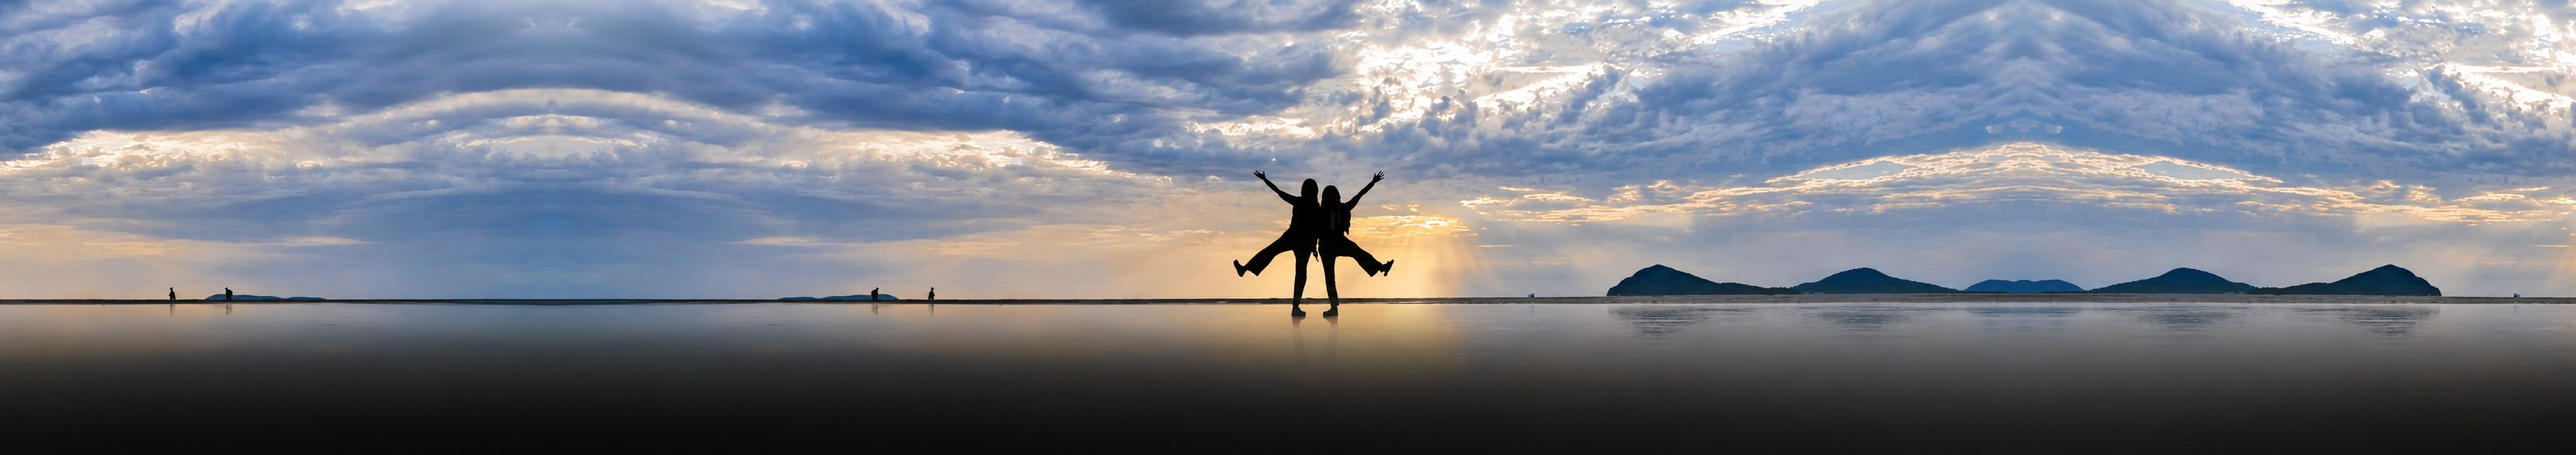
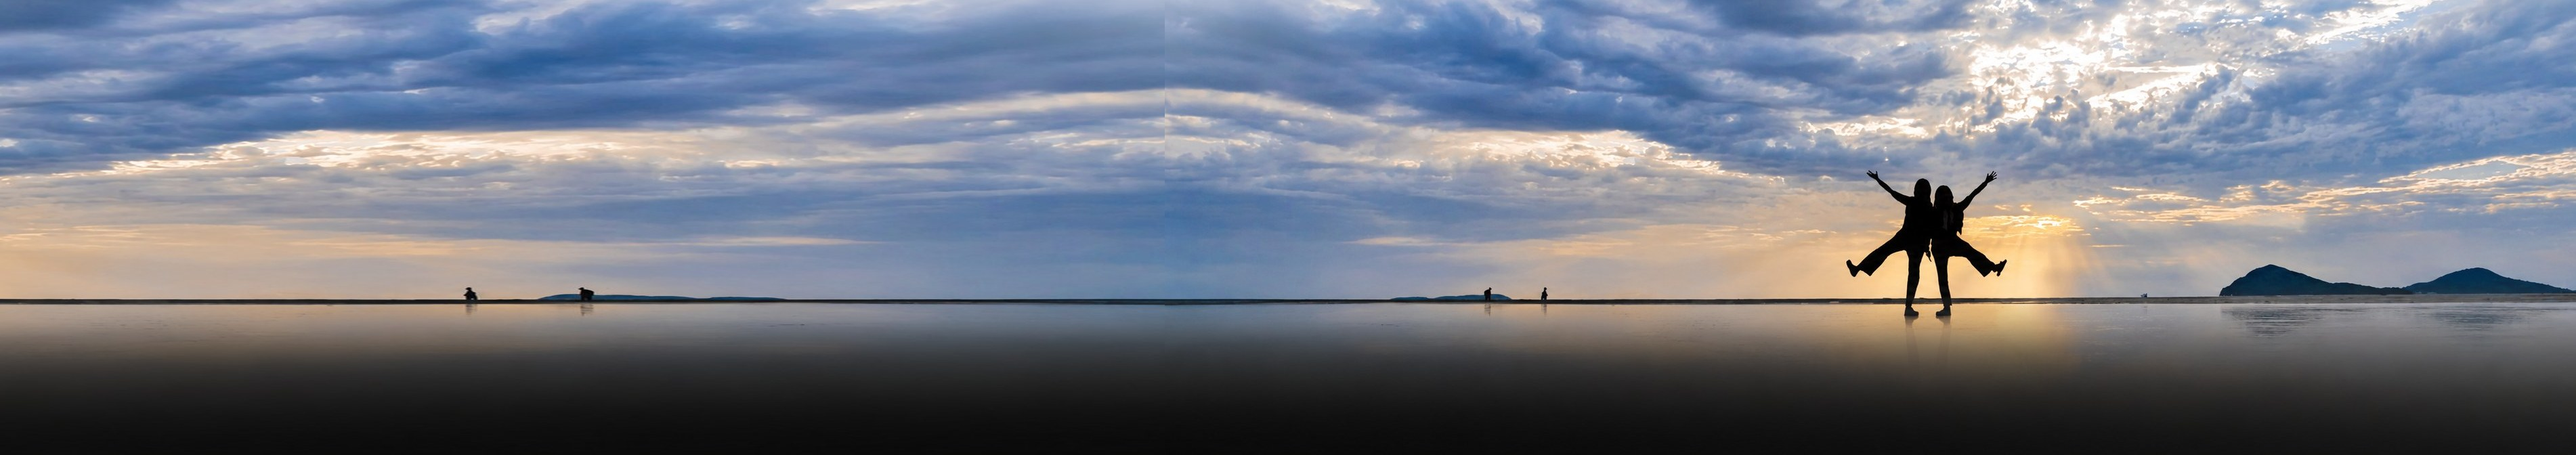
갤러리 배너 - 산을 오른쪽 끝으로, 이음매 없애기
거울처럼 반복돼 어색하던 오른쪽 산을 정리했습니다.
원본을 오른쪽으로 밀어 맨 끝 산이 화면에서 살짝 잘리게 하고,
왼쪽은 산도 사람도 없는 바다·하늘 한 조각을 늘려 채웠습니다.
여러 번 붙이지 않아 구름이 반복돼 보이지 않습니다.

diff --git a/OB/gallery.html b/OB/gallery.html
@@ -135,7 +135,7 @@
        (cover 로 하면 좁은 화면에서 옆으로 당겨져 사람 다리가 잘렸습니다) */
     /* 게시판 배너와 같은 5.66:1 — 좌우로 넓힌 그림이라 한 점도 안 잘린다 */
     background:linear-gradient(rgba(8,14,24,.44),rgba(8,14,24,.08) 52%,rgba(8,14,24,.18)),
-               url('/OB/images/ob_gallery_wide.jpg?v=1') center/contain no-repeat,
+               url('/OB/images/ob_gallery_wide.jpg?v=2') center/contain no-repeat,
                #16212e;
     aspect-ratio:3804/672;height:auto;min-height:88px;
     display:flex;flex-direction:column;justify-content:flex-start;
